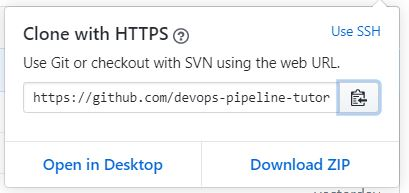
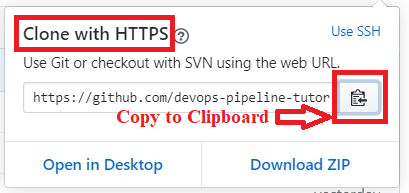
add stuff

Changed region(s): [[0.2641, 0.342, 0.9682, 0.6839], [0.0293, 0.0622, 0.4401, 0.2798]]

diff --git a/jenkins-build-test-deliver/step3.md b/jenkins-build-test-deliver/step3.md
@@ -1,0 +1,56 @@
+# Configure Jenkins
+
+Now, we will go back to Jenkins to configure it to have a `Multibranch Pipeline`. Then, we will add a webhook to Github so that Github notifies Jenkins when something interesting happens in Github, such as when a push happens to Github and when a new branch is created/deleted. However, first, we will create a `personal access token` on Github and save it, to use it later configure Jenkins to use it to change the commit status of pull requests and new commits.
+
+Let's take it step by step.
+
+## Create a Personal Access Token on Github
+
+1. First, sign in to your Github account if you are not already.
+
+1. Then, click your profile icon in the upper right part of your screen. Then, select `Settings`.  
+![](./assets/settings.png)
+
+1. Then, click `Developer Settings` on the left.  
+![](./assets/developer_settings.png)
+
+1. Then, click `Personal access tokens` on the left.  
+![](./assets/pers_access_token_github.png)
+
+1. Then, click `Generate new token` on the top right.  
+![](./assets/generate_new_token.png)
+
+1. Then, fill in the form. Write a meaningful `Note` for the token. I will choose `jenkins-token`. Then, select `repo:status` as the scope of this token, as this token is only needed by Jenkins to set and get the commit status.  
+![](./assets/token_form_github.png)
+
+1. Then, click `Generate new token` at the bottom of the page.  
+![](./assets/generate_token_button.png)
+
+1. This step is **IMPORTANT**. A token was created and now you should see it. Click on the `Copy to clipboard` icon (marked in red). Then, go to your terminal now in Katacoda and execute `echo "<copied token>" > token`{{copy}}, where `<copied token>` should be replaced by the copied token. This command will create a file called token in your current directory and write `<copied token>` in it. For example, if the copied token is `abc123`, then you should replace `<copied token>` by `abc123`. This will result in a command `echo "abc123" > token` that you should execute. The idea is that we want to save this token locally on your Katacoda environment because we will need it later, and Github will not let you see the token again (Github will tell you at the top `Make sure to copy your new personal access token now. You won’t be able to see it again!`). Normally, you would delete the `token` file that was created when you do not need it anymore. Also, the created token should be removed from Github as well when you are done with this tutorial.
+![](./assets/token.png)
+
+## Create a Multibranch Pipeline
+
+Do the following steps.
+
+1. Go to this URL https://[[HOST_SUBDOMAIN]]-8080-[[KATACODA_HOST]].environments.katacoda.com/, and log in (if you are not already logged in) using the `<USERNAME>` created in `Step 1` in this tutorial.
+
+1. When you have logged in, click on `New Item` on the left part of the screen.  
+![](./assets/new_item.png)
+
+1. A new form will appear. Type in the item name (call it `<ITEM NAME>`). I will choose `<ITEM NAME>`=`sample-project-pipeline`.  
+![](./assets/pipeline_name.png)
+
+1. Then, choose the item type `Multibranch Pipeline`. Then, click `OK`.  
+![](./assets/pipeline_type.png)
+
+1. A new form will appear. Fill in the `Display Name` in the top to be `Sample Maven Pipeline`.  
+![](./assets/display_name.png)
+
+1. Then, go to `Branch Sources`, and click on `Add source`.
+![](./assets/branch_source.png)
+
+1. Then change 
+
+1. Then, go to `https://github.com/<ORGANIZATION ACCOUNT NAME>/sample-project-repo`{{copy}}, where `<ORGANIZATION ACCOUNT NAME>` is your organization account name. In my case, it is `https://github.com/devops-pipeline-tutorial/sample-project-repo`, and click on `Clone or download`. Then, click `Use HTTPS` if `Clone with HTTPS` is not seen. Then, click on the `Copy to clipboard` sign to copy the repo URL.  
+![](./assets/clone_form.png)

diff --git a/jenkins-build-test-deliver/step2.md b/jenkins-build-test-deliver/step2.md
@@ -3,7 +3,7 @@ Now, we will use one of the two Github accounts that you have. This account will
 
 We will need an organization to be able to control the access writes to different users in a more flexible manners.
 
-# Create Github Organization
+## Create Github Organization
 Now, do the following steps (and the screenshots) to create a new organization:
 
 1. Sign in to your `<GITHUB_ADMIN_USER>` account.
@@ -32,7 +32,7 @@ Now, do the following steps (and the screenshots) to create a new organization:
 1. Click on `Skip this step` to skip adding collaborators for now until we have setup the organization and repo appropriately.
 ![](./assets/skip_step.png)
 
-# Fork the Github repo
+## Fork the Github repo
 1. Now, go to this Github repo [https://github.com/georgewbar/sample-project-repo](https://github.com/georgewbar/sample-project-repo) and click on `Fork` on the top right.
 ![](./assets/fork.png)
 

diff --git a/jenkins-build-test-deliver/step1.md b/jenkins-build-test-deliver/step1.md
@@ -15,7 +15,7 @@ address to the system.
 
 6. Then, execute `sudo usermod -a -G docker jenkins`{{execute}}. This will add the user `jenkins` to `docker` group. This is needed to give Jenkins the ability to start new containers, which we will need.
 
-7. Then, restart Jenkins by executing `sudo systemctl start jenkins` for that change to take effect.
+7. Then, restart Jenkins by executing `sudo systemctl restart jenkins`{{execute}} for that change to take effect. And, run `sudo systemctl status jenkins`{{execute}} to make sure that Jenkins is running.
 
 By default, Jenkins listens on port 8080, which is exposed in your Dashboard on your right, or via   
 https://[[HOST_SUBDOMAIN]]-8080-[[KATACODA_HOST]].environments.katacoda.com/.  

diff --git a/jenkins-build-test-deliver/intro.md b/jenkins-build-test-deliver/intro.md
@@ -29,4 +29,4 @@ As seen in the description above, if any the stage fail, all the following stage
 
 Moreover, in this tutorial, we will configure Github webhooks to trigger the pipeline when new commits are pushed to any branch in the repo, and we will configure Jenkins to send a commit status as a response to Github to make Github accept merging the code after reviewing.
 
-Now, Let's begin the tutorial.
+Now, Let's begin the tutorial. Please, note that most images are small enough to fit in Katacoda. However, there are some images that are not. If there is any image that is not clear, click on it to make it larger.
